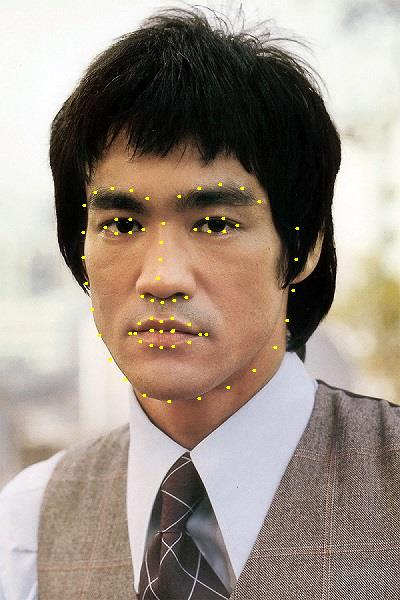
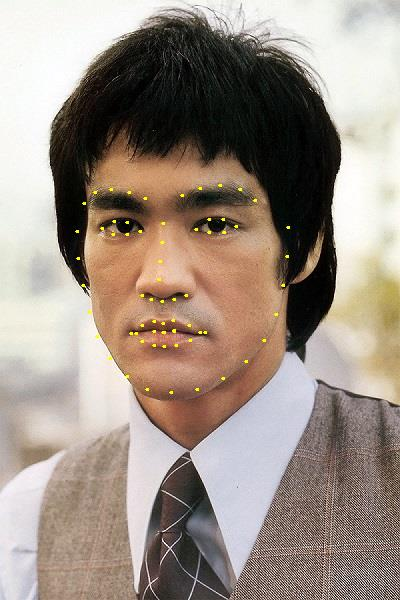
faceonnx.examples

diff --git a/FaceONNX.Examples/EmotionAndBeautyEstimation/Program.cs b/FaceONNX.Examples/EmotionAndBeautyEstimation/Program.cs
@@ -1,4 +1,5 @@
 using FaceONNX;
+using FaceONNX.Core;
 using System;
 using System.Drawing;
 using System.IO;
@@ -18,36 +19,53 @@ namespace EmotionAndBeautyEstimation
             Console.WriteLine("FaceONNX: Emotion and beauty estimation");
             var files = Directory.GetFiles(@"..\..\..\images");
             var path = @"..\..\..\results";
+            Directory.CreateDirectory(path);
 
             _faceDetectorLight = new FaceDetectorLight();
             _faceLandmarksExtractor = new FaceLandmarksExtractor();
             _faceEmotionClassifier = new FaceEmotionClassifier();
             _faceBautyClassifier = new FaceBautyClassifier();
-            Directory.CreateDirectory(path);
+            var painter = new Painter()
+            {
+                BoxPen = new Pen(Color.Red, 4),
+                Transparency = 0,
+                TextFont = new Font("Arial", 12)
+            };
 
             Console.WriteLine($"Processing {files.Length} images");
 
             foreach (var file in files)
             {
                 using var bitmap = new Bitmap(file);
+                var size = bitmap.Size;
+                var offset = 100;
+                using var template = Imaging.CreateBitmap(
+                    new Size(size.Width + offset, size.Height + offset), 
+                    Color.White);
+
+                template.Merge(bitmap, new Rectangle(offset / 2, offset / 2, bitmap.Size.Width, bitmap.Size.Height));
                 var filename = Path.GetFileName(file);
-                var faces = _faceDetectorLight.Forward(bitmap);
+                var faces = _faceDetectorLight.Forward(template);
                 int i = 1;
 
                 Console.WriteLine($"Image: [{filename}] --> detected [{faces.Length}] faces");
 
                 foreach (var face in faces)
                 {
-                    var pen = new Pen(Color.Yellow, bitmap.Height / 200 + 1);
-                    var font = new Font("Arial", 24);
-
                     Console.Write($"\t[Face #{i++}]: ");
 
-                    var labels = GetEmotionAndBeauty(bitmap, face);
-                    Imaging.Draw(bitmap, pen, font, new Rectangle[] { face }, labels);
+                    var labels = GetEmotionAndBeauty(template, face);
+
+                    var paintData = new PaintData()
+                    {
+                        Labels = labels,
+                        Rectangle = face
+                    };
+
+                    painter.Draw(template, paintData);
                 }
 
-                bitmap.Save(Path.Combine(path, filename));
+                template.Save(Path.Combine(path, filename));
             }
 
             _faceDetectorLight.Dispose();
@@ -67,9 +85,9 @@ namespace EmotionAndBeautyEstimation
             var emotion = _faceEmotionClassifier.Forward(aligned);
             var emotionLabel = FaceEmotionClassifier.Labels[emotion.Argmax()];
             var beauty = _faceBautyClassifier.Forward(aligned);
-            var beautyLabel = (Math.Round(2 * beauty.Max(), 1)).ToString();
-            
-            Console.WriteLine($"--> classified as [{emotionLabel}] emotion and [{beautyLabel}/10.0] beauty");
+            var beautyLabel = $"{Math.Round(2 * beauty.Max(), 1)}/10.0";
+
+            Console.WriteLine($"--> classified as [{emotionLabel}] emotion and [{beautyLabel}] beauty");
 
             return new string[] { emotionLabel, beautyLabel };
         }

diff --git a/FaceONNX.Examples/FaceLandmarksExtraction/Program.cs b/FaceONNX.Examples/FaceLandmarksExtraction/Program.cs
@@ -1,4 +1,5 @@
 using FaceONNX;
+using FaceONNX.Core;
 using System;
 using System.Drawing;
 using System.IO;
@@ -12,10 +13,15 @@ namespace FaceLandmarksExtraction
             Console.WriteLine("FaceONNX: Face landmarks extraction");
             var files = Directory.GetFiles(@"..\..\..\images");
             var path = @"..\..\..\results";
+            Directory.CreateDirectory(path);
 
             using var faceDetector = new FaceDetector();
             using var faceLandmarksExtractor = new FaceLandmarksExtractor();
-            Directory.CreateDirectory(path);
+            var painter = new Painter()
+            {
+                PointPen = new Pen(Color.Yellow, 4),
+                Transparency = 0,
+            };
             
             Console.WriteLine($"Processing {files.Length} images");
 
@@ -24,7 +30,6 @@ namespace FaceLandmarksExtraction
                 using var bitmap = new Bitmap(file);
                 var filename = Path.GetFileName(file);
                 var faces = faceDetector.Forward(bitmap);
-                var pen = new Pen(Color.Yellow, bitmap.Height / 200 + 1);
                 Console.WriteLine($"Image: [{filename}] --> detected [{faces.Length}] faces");
 
                 foreach (var face in faces)
@@ -33,7 +38,13 @@ namespace FaceLandmarksExtraction
                     
                     foreach (var point in points)
                     {
-                        Imaging.Draw(bitmap, pen, point);
+                        var paintData = new PaintData()
+                        {
+                            Points = point,
+                            Title = string.Empty,
+                        };
+
+                        painter.Draw(bitmap, paintData);
                         bitmap.Save(Path.Combine(path, filename));
                     }
                 }

diff --git a/FaceONNX.Examples/RaceAndAgeClassification/Program.cs b/FaceONNX.Examples/RaceAndAgeClassification/Program.cs
@@ -1,4 +1,5 @@
 using FaceONNX;
+using FaceONNX.Core;
 using System;
 using System.Drawing;
 using System.IO;
@@ -17,12 +18,18 @@ namespace RaceAndAgeClassification
             Console.WriteLine("FaceONNX: Race and age classification");
             var files = Directory.GetFiles(@"..\..\..\images");
             var path = @"..\..\..\results";
+            Directory.CreateDirectory(path);
 
             _faceDetectorLight = new FaceDetectorLight();
             _faceLandmarksExtractor = new FaceLandmarksExtractor();
             _faceRaceClassifier = new FaceRaceClassifier();
             _faceAgeClassifier = new FaceAgeClassifier();
-            Directory.CreateDirectory(path);
+            var painter = new Painter()
+            {
+                PointPen = new Pen(Color.Yellow, 4),
+                Transparency = 0,
+                TextFont = new Font("Arial", 24)
+            };
 
             Console.WriteLine($"Processing {files.Length} images");
 
@@ -37,13 +44,17 @@ namespace RaceAndAgeClassification
 
                 foreach (var face in faces)
                 {
-                    var pen = new Pen(Color.Yellow, bitmap.Height / 200 + 1);
-                    var font = new Font("Arial", 24);
-
                     Console.Write($"\t[Face #{i++}]: ");
 
                     var labels = GetRaceAndAge(bitmap, face);
-                    Imaging.Draw(bitmap, pen, font, new Rectangle[] { face }, labels);
+
+                    var paintData = new PaintData()
+                    {
+                        Rectangle = face,
+                        Labels = labels
+                    };
+
+                    painter.Draw(bitmap, paintData);
                 }
 
                 bitmap.Save(Path.Combine(path, filename));

diff --git a/FaceONNX.Examples/FaceDetection/Program.cs b/FaceONNX.Examples/FaceDetection/Program.cs
@@ -1,4 +1,5 @@
 using FaceONNX;
+using FaceONNX.Core;
 using System;
 using System.Drawing;
 using System.IO;
@@ -12,9 +13,14 @@ namespace FaceDetection
             Console.WriteLine("FaceONNX: Face detection");
             var files = Directory.GetFiles(@"..\..\..\images");
             var path = @"..\..\..\results";
-
-            using var faceDetectorLight = new FaceDetectorLight(0.75f, 0.25f);
             Directory.CreateDirectory(path);
+
+            using var faceDetectorLight = new FaceDetectorLight(0.95f, 0.25f);
+            var painter = new Painter()
+            {
+                BoxPen = new Pen(Color.Yellow, 4),
+                Transparency = 0,
+            };
 
             Console.WriteLine($"Processing {files.Length} images");
 
@@ -22,8 +28,16 @@ namespace FaceDetection
             {
                 using var bitmap = new Bitmap(file);
                 var output = faceDetectorLight.Forward(bitmap);
-                var pen = new Pen(Color.Yellow, bitmap.Height / 200 + 1);
-                Imaging.Draw(bitmap, pen, output);
+
+                foreach (var rectangle in output)
+                {
+                    var paintData = new PaintData()
+                    {
+                        Rectangle = rectangle,
+                        Title = string.Empty
+                    };
+                    painter.Draw(bitmap, paintData);
+                }
 
                 var filename = Path.GetFileName(file);
                 bitmap.Save(Path.Combine(path, filename));

diff --git a/FaceONNX.Examples/GenderClassification/Program.cs b/FaceONNX.Examples/GenderClassification/Program.cs
@@ -1,8 +1,9 @@
-using System;
+using FaceONNX;
+using FaceONNX.Core;
+using System;
 using System.Drawing;
 using System.IO;
 using System.Linq;
-using FaceONNX;
 
 namespace GenderClassification
 {

diff --git a/FaceONNX.Examples/FaceEmbeddingsClassification/Program.cs b/FaceONNX.Examples/FaceEmbeddingsClassification/Program.cs
@@ -1,4 +1,5 @@
 using FaceONNX;
+using FaceONNX.Core;
 using System;
 using System.Drawing;
 using System.IO;
